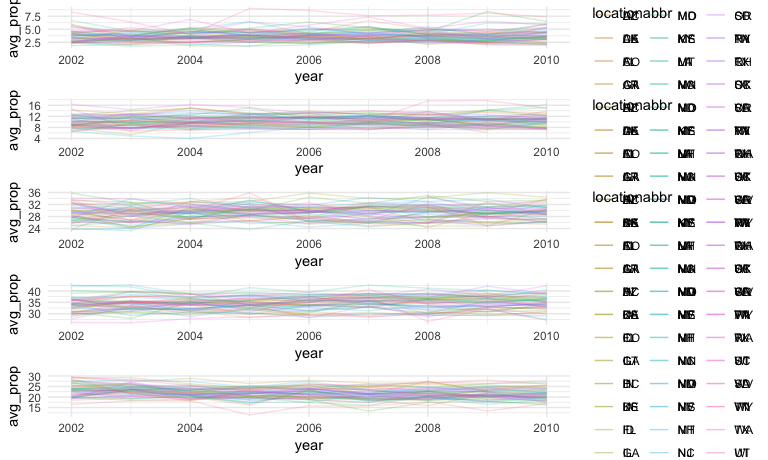
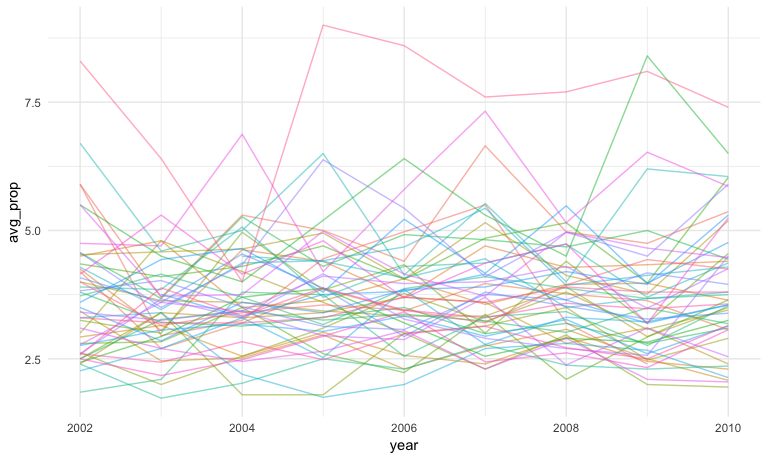
Added paragraph on Instacart data description

diff --git a/P8105_HW3_cbp2128.md b/P8105_HW3_cbp2128.md
@@ -134,21 +134,50 @@ produce_panel = function(data) {
   return(
     ggplot(data = data,
        aes(x = year, y = avg_prop, color = locationabbr)) + 
-  geom_line(alpha = 0.2)
+  geom_line(alpha = 0.5, show.legend=FALSE)
   )
 }
 
-produce_panel(poor_data) / produce_panel(fair_data) / produce_panel(good_data) / produce_panel(very_good_data) / produce_panel(excellent_data)
+produce_panel(poor_data) 
 ```
 
-    ## Warning: Removed 1 rows containing missing values (geom_path).
-
-    ## Warning: Removed 1 rows containing missing values (geom_path).
-
-    ## Warning: Removed 2 rows containing missing values (geom_path).
-
-    ## Warning: Removed 2 rows containing missing values (geom_path).
-
-    ## Warning: Removed 3 rows containing missing values (geom_path).
-
 <img src="P8105_HW3_cbp2128_files/figure-markdown_github/five_panel_bonanza-1.png" width="90%" />
+
+``` r
+produce_panel(fair_data) 
+```
+
+<img src="P8105_HW3_cbp2128_files/figure-markdown_github/five_panel_bonanza-2.png" width="90%" />
+
+``` r
+produce_panel(good_data) 
+```
+
+<img src="P8105_HW3_cbp2128_files/figure-markdown_github/five_panel_bonanza-3.png" width="90%" />
+
+``` r
+produce_panel(very_good_data) 
+```
+
+<img src="P8105_HW3_cbp2128_files/figure-markdown_github/five_panel_bonanza-4.png" width="90%" />
+
+``` r
+produce_panel(excellent_data)
+```
+
+<img src="P8105_HW3_cbp2128_files/figure-markdown_github/five_panel_bonanza-5.png" width="90%" />
+
+Problem 2
+=========
+
+This problem focuses on exploring the Instacart dataset, contained in `p8105.datasets`. To get started, we'll grab the data.
+
+``` r
+instacart = p8105.datasets::instacart
+```
+
+The `instacart` dataset has 1384617 and 15 columns, making it exceptionally large. In general, the dataset describes the orders and reorders of Instacart users in 2017. We can look at the contents of particular orders by `order_id` and can look at the `department` and `aisle` a product comes from. Along with `product_id`s, we also have access to the precise name of the product in `product_name`, which range from "Bulgarian Yogurt" to "Sustainably Soft Bath Tissue".
+
+The most interesting aspect of the data is perhaps the extensive order information, which we can link not just to users by `user_id` but also if the item is `reordered` or not. The resolution of the data is down to the hour, making it exceptionally granular. We can look at how many orders a user has done (`order_number`) and the precise *order* that a customer added an item to their cart. We may not have all of a user's orders in the dataset, but we do know if an item was `reordered` or not. For example, `user_id 1` ordered 11 items in their 11th order, and 10 of these items were reorders. This data suggests that this user is a frequent user of the site and uses the site to get their regular groceries, based on the items ordered (ie, Whole Milk, Paper Towels and Cinnamon Toast Crunch).
+
+The goal is to do some exploration of this dataset. To that end, write a short description of the dataset, noting the size and structure of the data, describing some key variables, and giving illstrative examples of observations.
